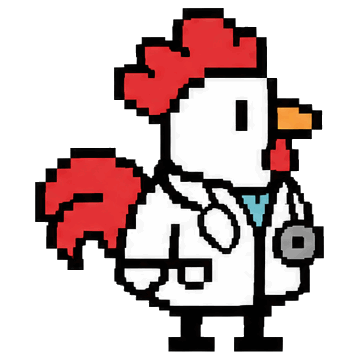
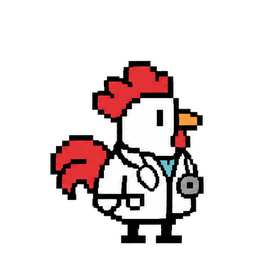
Recorte limpio del gallo y sin escalado pixelado
Claude-Session: https://claude.ai/code/session_01YNJSgXjQsSQC1XduyrNxHU

diff --git a/aula/index.html b/aula/index.html
@@ -14,7 +14,7 @@
   <link rel="preconnect" href="https://fonts.googleapis.com">
   <link rel="preconnect" href="https://fonts.gstatic.com" crossorigin>
   <link href="https://fonts.googleapis.com/css2?family=Newsreader:opsz,wght@6..72,400;6..72,500;6..72,600&family=Public+Sans:wght@400;500;600;700&family=Silkscreen&display=swap" rel="stylesheet">
-  <link rel="stylesheet" href="aula.css?v=202611101901">
+  <link rel="stylesheet" href="aula.css?v=202611101903">
   <script>
     try {
       var t = localStorage.getItem("tema");
@@ -63,14 +63,14 @@
     </section>
 
     <section id="charlas" class="bloque">
-      <img class="pose" src="../img/gallo/gallo-entusiasmado.png" alt="" width="200" height="200" loading="lazy">
+      <img class="pose" src="../img/gallo/gallo-entusiasmado.png?v=2" alt="" width="200" height="200" loading="lazy">
       <div class="bloque-cab"><p class="pixel-etq">01 · Charlas</p><h2>Charlas para tu instituto</h2>
         <p>Cada charla dura una clase y está pensada para participar, no solo para escuchar.</p></div>
       <div class="rejilla" id="charlasLista"></div>
     </section>
 
     <section id="laboratorio" class="bloque">
-      <img class="pose" src="../img/gallo/gallo-saluda.png" alt="" width="200" height="200" loading="lazy">
+      <img class="pose" src="../img/gallo/gallo-saluda.png?v=2" alt="" width="200" height="200" loading="lazy">
       <div class="bloque-cab"><p class="pixel-etq">02 · Laboratorio</p><h2>Experimentos para hacer desde el móvil</h2>
         <p>Pruébalos tú, o en clase con toda la gente a la vez.</p></div>
       <div class="lab">
@@ -83,7 +83,7 @@
           <div class="reaccion-pie"><span>Tu mejor marca: <b id="rMejor">—</b></span><span>Intentos: <b id="rIntentos">0</b></span></div>
         </div>
         <div class="lab-explica">
-          <img class="pose-lab" id="rPose" src="../img/gallo/gallo-fonendo.png" alt="" width="200" height="200">
+          <img class="pose-lab" id="rPose" src="../img/gallo/gallo-fonendo.png?v=2" alt="" width="200" height="200">
           <h3>¿Qué estás midiendo?</h3>
           <p>Tus ojos ven el cambio de color, la señal viaja al cerebro, el cerebro decide y manda la orden a tu dedo. Todo eso, en una fracción de segundo.</p>
           <p>La mayoría de la gente tarda entre <strong>200 y 300 milisegundos</strong>. Lo curioso: los nervios son rapidísimos, así que casi todo ese tiempo se lo pasa tu cerebro <strong>procesando y decidiendo</strong>.</p>
@@ -94,7 +94,7 @@
     </section>
 
     <section id="mitos" class="bloque">
-      <img class="pose" src="../img/gallo/gallo-pensando.png" alt="" width="200" height="200" loading="lazy">
+      <img class="pose" src="../img/gallo/gallo-pensando.png?v=2" alt="" width="200" height="200" loading="lazy">
       <div class="bloque-cab"><p class="pixel-etq">03 · ¿Mito o ciencia?</p><h2>¿Mito o ciencia?</h2>
         <p>Lee la frase, decide y toca la tarjeta para descubrir la respuesta.</p></div>
       <div class="marcador" id="marcador" aria-live="polite"></div>
@@ -102,14 +102,14 @@
     </section>
 
     <section id="investigador" class="bloque">
-      <img class="pose" src="../img/gallo/gallo-de-pie.png" alt="" width="200" height="200" loading="lazy">
+      <img class="pose" src="../img/gallo/gallo-de-pie.png?v=2" alt="" width="200" height="200" loading="lazy">
       <div class="bloque-cab"><p class="pixel-etq">04 · ¿Quién soy?</p><h2>¿Cómo se llega a ser investigador?</h2>
         <p>Soy Rafael, fisioterapeuta e investigador. No hace falta ser un genio: hace falta curiosidad y no dejar de hacer preguntas.</p></div>
       <ol class="camino" id="camino"></ol>
     </section>
 
     <section class="bloque">
-      <img class="pose" src="../img/gallo/gallo-idea.png" alt="" width="200" height="200" loading="lazy">
+      <img class="pose" src="../img/gallo/gallo-idea.png?v=2" alt="" width="200" height="200" loading="lazy">
       <div class="bloque-cab"><p class="pixel-etq">05 · Próximamente</p><h2>Lo que está por llegar al Aula</h2></div>
       <ul class="ruta" id="ruta"></ul>
     </section>
@@ -121,14 +121,14 @@
         <p>En la web principal encontrarás los temas completos, un hallazgo científico nuevo cada día con su pregunta y los artículos que publico como investigador.</p>
         <a class="btn btn-pixel" href="../">Ir a la web principal →</a>
       </div>
-      <img class="indagar-logo pose-fija" src="../img/gallo/gallo-camina.png" alt="" width="200" height="200">
+      <img class="indagar-logo pose-fija" src="../img/gallo/gallo-camina.png?v=2" alt="" width="200" height="200">
     </section>
   </main>
 
   <footer><div>© <span id="anio"></span> RafaelJL · Aula · <a href="../">Web principal</a></div></footer>
 
   <script data-goatcounter="https://rafaeljl.goatcounter.com/count" async src="https://gc.zgo.at/count.js"></script>
-  <script src="datos.js?v=202611101901"></script>
-  <script src="aula.js?v=202611101901"></script>
+  <script src="datos.js?v=202611101903"></script>
+  <script src="aula.js?v=202611101903"></script>
 </body>
 </html>

diff --git a/aula/aula.css b/aula/aula.css
@@ -21,7 +21,7 @@ a { color: var(--acento); }
 h1, h2, h3 { font-family: var(--serif); font-weight: 500; color: var(--tinta); margin: 0; line-height: 1.15; }
 .pixel, .pixel-etq { font-family: var(--pixel); font-weight: 400; letter-spacing: .04em; }
 .pixel-etq { margin: 0 0 1rem; font-size: .9rem; color: var(--acento); text-transform: uppercase; }
-.pixelado { image-rendering: pixelated; }
+.pixelado { image-rendering: auto; }
 :focus-visible { outline: 2px solid var(--ambar); outline-offset: 3px; }
 
 /* Barra */
@@ -189,12 +189,11 @@ footer div { max-width: 1140px; margin: 0 auto; padding: 1.5rem; font-size: .85r
 
 /* Poses del gallo */
 .bloque { position: relative; }
-.pose { position: absolute; right: 0; top: 2.2rem; width: 120px; height: auto; image-rendering: pixelated; pointer-events: none; animation: flota 3.5s ease-in-out infinite; }
+.pose { position: absolute; right: 0; top: 2.2rem; width: 120px; height: auto; pointer-events: none; animation: flota 3.5s ease-in-out infinite; }
 .bloque:nth-of-type(even) .pose { animation-delay: -1.7s; }
 @keyframes flota { 50% { transform: translateY(-6px); } }
-.pose-lab { float: right; width: 96px; height: auto; margin: -.5rem 0 .5rem 1rem; image-rendering: pixelated; }
-.pose-fija { image-rendering: pixelated; }
+.pose-lab { float: right; width: 96px; height: auto; margin: -.5rem 0 .5rem 1rem; }
 .indagar-logo.pose-fija { width: 170px; }
-:root[data-tema="oscuro"] .pose, :root[data-tema="oscuro"] .pose-lab, :root[data-tema="oscuro"] .pose-fija { filter: drop-shadow(0 0 1px rgba(236,234,229,.55)); }
+:root[data-tema="oscuro"] .pose, :root[data-tema="oscuro"] .pose-lab, :root[data-tema="oscuro"] .pose-fija { filter: drop-shadow(0 0 .6px rgba(236,234,229,.9)) drop-shadow(0 0 .6px rgba(236,234,229,.9)); }
 @media (max-width: 900px) { .pose { width: 84px; top: 2.4rem; } }
 @media (max-width: 600px) { .pose { width: 64px; top: 2.6rem; } .bloque-cab { padding-right: 70px; } .pose-lab { width: 72px; } }

diff --git a/index.html b/index.html
@@ -26,7 +26,7 @@
   <link rel="preconnect" href="https://fonts.googleapis.com">
   <link rel="preconnect" href="https://fonts.gstatic.com" crossorigin>
   <link href="https://fonts.googleapis.com/css2?family=Newsreader:opsz,wght@6..72,400;6..72,500;6..72,600&family=Public+Sans:wght@400;500;600&display=swap" rel="stylesheet">
-  <link rel="stylesheet" href="styles.css?v=202611101901">
+  <link rel="stylesheet" href="styles.css?v=202611101903">
   <link rel="icon" type="image/png" href="img/favicon.png">
   <link rel="apple-touch-icon" href="img/favicon.png">
   <script>
@@ -86,7 +86,7 @@
     </section>
 
     <a class="puerta-aula" href="aula/">
-      <span class="puerta-gif"><img src="img/gallo/gallo-saluda.png" alt="" width="200" height="200" loading="lazy"></span>
+      <span class="puerta-gif"><img src="img/gallo/gallo-saluda.png?v=2" alt="" width="200" height="200" loading="lazy"></span>
       <span class="puerta-txt">
         <span class="puerta-etq" data-i18n="puertaEtq">Aula · Para institutos y curiosos</span>
         <strong data-i18n="puertaTit">¿Das clase o tienes curiosidad? Entra al Aula</strong>
@@ -145,11 +145,11 @@
     <div id="modalCont"></div>
   </dialog>
 
-  <script src="data.js?v=202611101901"></script>
-  <script src="produccion.js?v=202611101901"></script>
-  <script src="topic.js?v=202611101901"></script>
+  <script src="data.js?v=202611101903"></script>
+  <script src="produccion.js?v=202611101903"></script>
+  <script src="topic.js?v=202611101903"></script>
   <!-- Estadísticas de visitas sin cookies (GoatCounter) -->
   <script data-goatcounter="https://rafaeljl.goatcounter.com/count" async src="https://gc.zgo.at/count.js"></script>
-  <script src="script.js?v=202611101901"></script>
+  <script src="script.js?v=202611101903"></script>
 </body>
 </html>

diff --git a/styles.css b/styles.css
@@ -473,7 +473,7 @@ dialog.lectura .progreso { opacity: 1; }
 /* En curso */
 .en-curso { display: grid; grid-template-columns: 210px 1fr; gap: 2.25rem; align-items: center; margin-top: 2.5rem; padding: 2rem; background: color-mix(in srgb, var(--ambar) 7%, var(--papel)); border: 1px dashed color-mix(in srgb, var(--ambar) 55%, var(--linea)); }
 .en-curso-gif { margin: 0; background: #fff; border: 1px solid var(--linea); padding: .4rem; box-shadow: 0 16px 30px -22px rgba(90,50,20,.5); transform: rotate(-1.5deg); }
-.en-curso-gif img { width: 100%; height: auto; image-rendering: pixelated; }
+.en-curso-gif img { width: 100%; height: auto; }
 .en-curso h3 { font: 500 1.6rem var(--serif); color: var(--tinta); margin: 0 0 1rem; }
 .en-curso .sobretitulo { margin-bottom: .6rem; }
 .curso-lista { list-style: none; margin: 0; padding: 0; }
@@ -509,8 +509,8 @@ dialog.lectura .progreso { opacity: 1; }
 :root[data-tema="oscuro"] .puerta-aula { border-color: #eceae5; }
 .puerta-gif { display: block; width: 104px; margin: -1.4rem 0 -.6rem; transition: transform .25s; }
 .puerta-aula:hover .puerta-gif { transform: translateY(-4px) rotate(-3deg); }
-:root[data-tema="oscuro"] .puerta-gif img { filter: drop-shadow(0 0 1px rgba(236,234,229,.55)); }
-.puerta-gif img { width: 100%; height: auto; image-rendering: pixelated; }
+:root[data-tema="oscuro"] .puerta-gif img { filter: drop-shadow(0 0 .6px rgba(236,234,229,.9)) drop-shadow(0 0 .6px rgba(236,234,229,.9)); }
+.puerta-gif img { width: 100%; height: auto; }
 .puerta-txt { display: flex; flex-direction: column; gap: .3rem; }
 .puerta-etq { font-size: .7rem; font-weight: 600; letter-spacing: .12em; text-transform: uppercase; color: var(--acento); }
 .puerta-txt strong { font: 500 1.45rem/1.25 var(--serif); color: var(--tinta); }

diff --git a/aula/aula.js b/aula/aula.js
@@ -38,7 +38,7 @@
   let estado = "inicio", t0 = 0, temp = null;
   let datos = leer("aulaReaccion", { mejor: null, intentos: 0 });
   const pintarMarcas = () => { $("rMejor").textContent = datos.mejor ? datos.mejor + " ms" : "—"; $("rIntentos").textContent = datos.intentos; };
-  const POSE = (n) => `../img/gallo/gallo-${n}.png`;
+  const POSE = (n) => `../img/gallo/gallo-${n}.png?v=2`;
   const pose = (n) => { const i = $("rPose"); if (i) i.src = POSE(n); };
   ["entusiasmado", "pensando", "camina"].forEach((n) => { const i = new Image(); i.src = POSE(n); });
   const poner = (e, titulo, texto) => { estado = e; zona.dataset.estado = e; $("rTitulo").textContent = titulo; $("rTexto").textContent = texto; };
